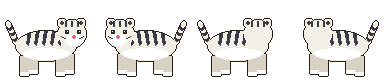
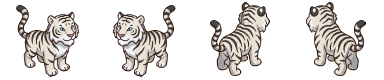
Weißer Tiger mit echten Bildern (laufend, fressend, Gesicht im Bambus)

diff --git a/tools/make-sprites.js b/tools/make-sprites.js
@@ -1678,96 +1678,6 @@ function buildPlanks() {
   return c;
 }
 
-// ---------- Tiger (Asien): Platzhalter, 4 Ansichten à 96x80 (Füße bei 76); white: weißer Tiger (seltene Variante) ----------
-function tigerColors(white) {
-  return white
-    ? { fur: '#f2efe6', dark: '#d8d2c4', stripe: '#3a3a44', belly: '#ffffff' }
-    : { fur: '#e8892c', dark: '#c86a1c', stripe: '#2b2018', belly: '#fbecd4' };
-}
-
-function tigerSprite(white = false) {
-  const C = tigerColors(white);
-  const view = (back) => {
-    const o = new Canvas(96, 80);
-    const g = 76;
-    // Beine
-    for (const [x, d] of [[24, 0], [33, 2], [60, 0], [69, 2]]) {
-      o.rect(x - 4, g - 20 - d, 9, 20 - (d ? 1 : 0), hex(C.dark));
-      o.rect(x - 4, g - 4 - d, 9, 4, hex(C.belly));
-    }
-    // Schwanz mit Ringen
-    for (let i = 0; i < 14; i++) {
-      const tx = 16 - i * 0.6, ty = g - 34 - i * 1.4;
-      o.circle(tx, ty, 2.6, hex(i % 4 < 2 ? C.fur : C.stripe));
-    }
-    // Körper mit Streifen
-    o.ellipse(46, g - 30, 30, 15, hex(C.fur));
-    o.ellipse(46, g - 22, 24, 6, hex(C.belly), true);
-    for (const x of [28, 36, 44, 52, 60]) o.poly([[x, g - 45], [x + 4, g - 45], [x + 1, g - 30], [x - 2, g - 32]], hex(C.stripe), true);
-    // Kopf
-    const hx = back ? 66 : 72, hy = g - 42;
-    o.circle(hx, hy, 14, hex(C.fur));
-    for (const ex of [-10, 9]) {
-      o.circle(hx + ex, hy - 11, 4.5, hex(C.fur));
-      o.circle(hx + ex, hy - 11, 2, hex(C.stripe));
-    }
-    for (const dx of [-6, 0, 6]) o.rect(hx + dx - 1, hy - 13, 2, 6, hex(C.stripe)); // Stirnstreifen
-    if (!back) {
-      o.ellipse(hx + 2, hy + 6, 9, 6, hex(C.belly)); // Schnauze
-      o.circle(hx - 5, hy - 2, 2.4, hex('#2b2b2b'));
-      o.circle(hx + 7, hy - 2, 2.4, hex('#2b2b2b'));
-      o.set(hx - 5, hy - 3, hex('#ffffff'));
-      o.set(hx + 7, hy - 3, hex('#ffffff'));
-      o.ellipse(hx + 2, hy + 3, 2.5, 1.8, hex('#d86a7a')); // Nase
-      for (const dx of [-12, 12]) o.line(hx + dx * 0.6, hy + 4, hx + dx, hy + 2, hex(C.stripe)); // Wangenstreifen
-    }
-    o.outline(INK);
-    return o;
-  };
-  const sheet = new Canvas(384, 80);
-  const front = view(false), back = view(true);
-  sheet.draw(front, 0, 0);
-  sheet.draw(front, 96, 0, true);
-  sheet.draw(back, 192, 0);
-  sheet.draw(back, 288, 0, true);
-  return sheet;
-}
-
-// neugieriges Tigergesicht zwischen Bambusblättern (schaut aus dem Bambus); Mitte unten bei (32, 60)
-function tigerPeek(white = false) {
-  const C = tigerColors(white);
-  const o = new Canvas(64, 64);
-  const hx = 32, hy = 36;
-  o.circle(hx, hy, 18, hex(C.fur));
-  for (const ex of [-13, 13]) {
-    o.circle(hx + ex, hy - 14, 6, hex(C.fur));
-    o.circle(hx + ex, hy - 14, 3, hex('#f4c0b0'));
-  }
-  for (const dx of [-7, 0, 7]) o.rect(hx + dx - 1, hy - 17, 3, 7, hex(C.stripe));
-  for (const s of [-1, 1]) for (const dy of [-2, 4]) o.line(hx + s * 18, hy + dy, hx + s * 11, hy + dy + 1, hex(C.stripe));
-  o.ellipse(hx, hy + 8, 11, 7, hex(C.belly));
-  // große, runde, neugierige Augen mit Lichtpunkt
-  for (const ex of [-7, 7]) {
-    o.circle(hx + ex, hy - 2, 4.5, hex('#ffffff'));
-    o.circle(hx + ex + 1, hy - 1, 3, hex('#3a2a1a'));
-    o.circle(hx + ex, hy - 3, 1.2, hex('#ffffff'));
-  }
-  o.ellipse(hx, hy + 5, 3, 2, hex('#d86a7a'));
-  o.line(hx, hy + 7, hx - 3, hy + 10, hex(C.stripe));
-  o.line(hx, hy + 7, hx + 3, hy + 10, hex(C.stripe));
-  o.outline(INK);
-  // Bambusblätter davor
-  const c = new Canvas(64, 64);
-  c.draw(o, 0, 0);
-  const leaf = hex('#5f9a3a'), leaf2 = hex('#7ab84a');
-  for (const [x, y, w] of [[8, 50, 10], [22, 56, 9], [44, 55, 10], [56, 48, 9], [4, 38, 8], [60, 34, 7]]) {
-    c.ellipse(x, y, w, 3, leaf);
-    c.ellipse(x - 1, y - 1, w * 0.6, 1.5, leaf2, true);
-  }
-  c.outline(INK);
-  return c;
-}
-
 // ---------- Orang-Utan (Asien): Platzhalter, 4 Ansichten à 88x88 (Füße bei 84); flange: Flanschen-Männchen ----------
 const ORANG = { fur: '#b8582a', dark: '#8a3e1c', light: '#d47a44', face: '#6a4a3a', faceLight: '#8a6650' };
 
@@ -2123,9 +2033,6 @@ const sprites = {
   'fountain.png': fountain(),
   'nest_box.png': nestBox(),
   'lion_rock.png': lionRock(),
-  // weißer Tiger (Platzhalter, der normale Tiger kommt aus Sprites/Tiger.jpg, siehe prepare-characters.js); _peek: Gesicht im Bambus
-  'tiger2.png': tigerSprite(true),
-  'tiger2_peek.png': tigerPeek(true),
   'ball.png': toyBall(), // Ball als Werkzeug (Bild in der Werkzeugleiste und in der Kiste)
   // Flanschen-Männchen (Platzhalter; der normale Orang-Utan kommt aus Sprites/Orang Utan.jpg); _tree: oben in der Baumkrone
   'orangutan2.png': orangutanSprite(true),

diff --git a/tools/prepare-characters.js b/tools/prepare-characters.js
@@ -155,6 +155,9 @@ const CHARACTERS = [
   // Tiger (Asien): laufend und fressend, gleicher Maßstab
   { src: 'Sprites/Tiger.png', out: 'tiger.png', frameW: 96, frameH: 80, feetY: 76, scale: 0.28 },
   { src: 'Sprites/Tiger frisst.png', out: 'tiger_eat.png', frameW: 96, frameH: 80, feetY: 76, scale: 0.28 },
+  // weißer Tiger (seltene Variante): gleicher Aufbau und Maßstab
+  { src: 'Sprites/Tiger2.png', out: 'tiger2.png', frameW: 96, frameH: 80, feetY: 76, scale: 0.28 },
+  { src: 'Sprites/Tiger2 frisst.png', out: 'tiger2_eat.png', frameW: 96, frameH: 80, feetY: 76, scale: 0.28 },
   // Orang-Utan: auf allen Vieren und sitzend beim Fressen (das sitzende Bild nimmt er auch oben im Baum, siehe tree-peeks.cjs)
   { src: 'Sprites/Orang Utan.png', out: 'orangutan.png', frameW: 88, frameH: 88, feetY: 84, scale: 0.28 },
   { src: 'Sprites/Orang Utan sitzt und frisst.png', out: 'orangutan_eat.png', frameW: 88, frameH: 88, feetY: 84, scale: 0.28 },

diff --git a/src/scenes/BootScene.js b/src/scenes/BootScene.js
@@ -143,8 +143,8 @@ export default class BootScene extends Phaser.Scene {
       this.load.spritesheet(k, `assets/${k}.png`, { frameWidth: 88, frameHeight: 88 });
       this.load.image(`${k}_tree`, `assets/${k}_tree.png`);
     }
-    // Tiger (Asien) und der weiße Tiger (seltene Variante, noch Platzhalter); _peek: neugieriges Gesicht im Bambus
-    this.load.spritesheet('tiger_eat', 'assets/tiger_eat.png', { frameWidth: 96, frameHeight: 80 });
+    // Tiger (Asien) und der weiße Tiger (seltene Variante); _peek: neugieriges Gesicht im Bambus
+    for (const k of ['tiger_eat', 'tiger2_eat']) this.load.spritesheet(k, `assets/${k}.png`, { frameWidth: 96, frameHeight: 80 });
     for (const k of ['tiger', 'tiger2']) {
       this.load.spritesheet(k, `assets/${k}.png`, { frameWidth: 96, frameHeight: 80 });
       this.load.image(`${k}_peek`, `assets/${k}_peek.png`);
